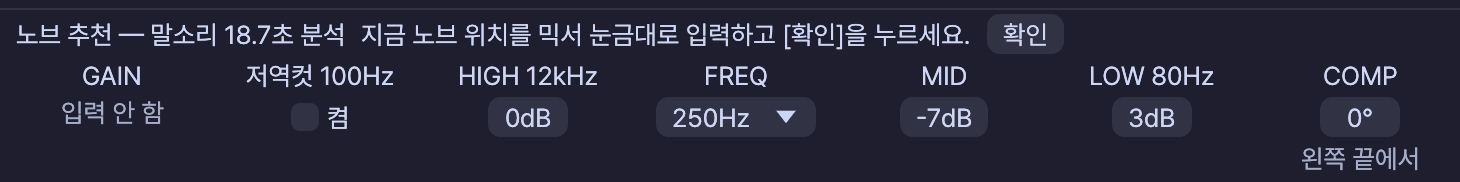
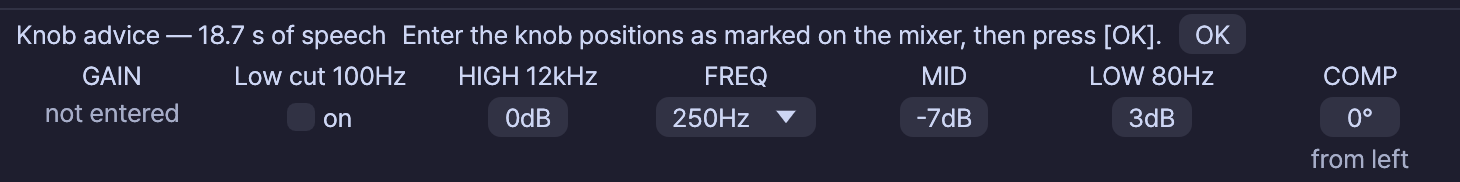
docs: README and screenshots for the English interface

diff --git a/README.md b/README.md
@@ -1,28 +1,26 @@
 # Mixer Analyzer
 
-Listens to a voice through an analog mixer and tells you which EQ knob on that channel to turn, which way, and how far. Built for church sound checks: set the EQ to 12 o'clock, press **분석** (Analyze), and talk for 20 seconds. You fine-tune by ear after that.
+Listens to a voice through an analog mixer and tells you which EQ knob on that channel to turn, which way, and how far. Built for church sound checks: set the EQ to 12 o'clock, press **Analyze**, and talk for 20 seconds. You fine-tune by ear after that.
 
 <p align="center">
-  <img src="docs/screenshots/main.png" width="860" alt="Mixer Analyzer after a centre analysis: the spectrum of a female voice against the dotted target, a red muddiness band at 250–500 Hz, and the knob row advising MID at 250 Hz 65° counter-clockwise and LOW 30° clockwise">
+  <img src="docs/screenshots/main.png" width="860" alt="Mixer Analyzer after a center analysis: the spectrum of a female voice against the dotted target, a red Mud band at 250–500 Hz, and the knob row advising MID at 250 Hz 65° counter-clockwise and LOW 30° clockwise">
 </p>
-
-The app is in Korean. This README names each control by its on-screen label, with the English meaning beside it.
 
 ## Installation
 
 - **macOS:** Apple menu → **About This Mac** shows the chip. Take `MixerAnalyzer-mac-AppleSilicon.zip` for "Apple M…" or `MixerAnalyzer-mac-Intel.zip` for "Intel", unzip it, and move `MixerAnalyzer.app` to Applications.
-- **Windows:** run `MixerAnalyzer-Setup.exe`, then start **믹서 분석기** from the Start menu or the desktop. Uninstall in Settings → Apps; saved settings stay. If you used the old zip version, delete the old `MixerAnalyzer.exe` and its shortcut: it never checks for updates.
+- **Windows:** run `MixerAnalyzer-Setup.exe`, then start **Mixer Analyzer** from the Start menu or the desktop. Uninstall in Settings → Apps; saved settings stay. If you used the old zip version, delete the old `MixerAnalyzer.exe` and its shortcut: it never checks for updates.
 
 ### First launch
 
-- **macOS:** the first launch is blocked ("can't be opened"). Open **System Settings → Privacy & Security** and click **Open Anyway**. Allow the microphone when asked; denied, the app gets silence and shows `입력 신호가 없습니다` (no input signal).
+- **macOS:** the first launch is blocked ("can't be opened"). Open **System Settings → Privacy & Security** and click **Open Anyway**. Allow the microphone when asked; denied, the app gets silence and warns that there is no input.
 - **Windows:** if "Windows protected your PC" appears, click **More info → Run anyway**. If no sound comes in, turn on microphone access in Settings → Privacy & security → Microphone.
 
 ### Updates
 
-At launch the app checks for a new version and shows `새 버전이 있습니다` (a new version is available) at the top of the left panel. Nothing shows when offline.
-- Windows: **업데이트** (Update) downloads the installer, opens it and closes the app. Not during a service.
-- macOS: **받으러 가기** (Get it) opens the download folder; replace the app with the new zip.
+At launch the app checks for a new version and shows **New version available** at the top of the left panel. Nothing shows when offline.
+- Windows: **Update** downloads the installer, opens it and closes the app. Not during a service.
+- macOS: **Download** opens the download folder; replace the app with the new zip.
 
 The running version is at the bottom of the left panel.
 
@@ -42,18 +40,18 @@ The app hears whatever reaches the computer. Send it the one channel you are set
 
 ## Usage
 
-1. In the left panel pick **믹서** (mixer), **채널** (channel group), **입력장치** (input device), **분석채널** (analysis channel: 1 = L, 2 = R), **목표** (target) and **남성 / 여성** (male / female voice).
-2. Press **분석** (Analyze). A dialog lists the knobs this channel has:
+1. In the left panel pick the **Mixer**, **Channel** group, **Input** device, **Analysis channel** (1 = L, 2 = R), **Target** and **Male** / **Female** voice.
+2. Press **Analyze**. A dialog lists the knobs this channel has:
 
    <p align="center">
-     <img src="docs/screenshots/dialog.png" width="390" alt="The pre-analysis dialog: HIGH, MID and LOW to 12 o'clock, low cut off, COMP fully left, GAIN as is, with the buttons 가운데로 맞췄어요, 분석 / 지금 세팅 그대로 분석 / 취소">
+     <img src="docs/screenshots/dialog.png" width="380" alt="The Before you analyze dialog: HIGH, MID and LOW to 12 o'clock, low cut off, COMP fully left, GAIN as is, with the buttons Centered, analyze / Analyze as set / Cancel">
    </p>
 
-   Turn HIGH, MID and LOW to 12 o'clock, the low cut off and COMP fully left (off). Leave GAIN. Then press **가운데로 맞췄어요, 분석** (centred, analyze) or `Enter`. **취소** (Cancel) or `Esc` closes the dialog.
-3. Talk as usual until the recording ends. The **녹음** (record) slider sets its length: 15–30 s, 20 s by default. The button turns into **취소** (Cancel) meanwhile.
+   Turn HIGH, MID and LOW to 12 o'clock, the low cut off and COMP fully left (off). Leave GAIN. Then press **Centered, analyze** or `Enter`. **Cancel** or `Esc` closes the dialog.
+3. Talk as usual until the recording ends. The **Record** slider sets its length: 15–30 s, 20 s by default. Meanwhile the button turns into **Cancel**.
 4. Turn each knob as the knob row says, then fine-tune by ear.
 
-The analysis needs at least 5 s of speech; `말소리가 부족합니다` (not enough speech) means press **분석** again and keep talking. Do it at the sound check: during the service the sound keeps changing.
+The analysis needs at least 5 s of speech; if there wasn't enough, the notes say so: press **Analyze** again and keep talking. Do it at the sound check: during the service the sound keeps changing.
 
 The result stays until the next analysis, and the previous one stays visible while recording. Changing the mixer, channel group, target or voice recomputes the advice from it without recording again.
 
@@ -63,14 +61,14 @@ Each knob gets a dial and a caption. The needle is where the knob is, the yellow
 
 | Caption | Meaning |
 |---|---|
-| `시계방향 30°` / `반시계 65°` | Turn 30° clockwise / 65° counter-clockwise |
-| `(+3dB 눈금으로)` | That lands on the +3 dB mark |
-| `250Hz 눈금에` | Set FREQ to the 250 Hz mark |
-| `왼쪽 끝에서 30°로` | COMP: turn to 30° from the left end |
-| `켜기 권장` | Turn the low cut on |
-| `✓` | Leave it where it is |
+| `30° CW` / `65° CCW` | Turn 30° clockwise / 65° counter-clockwise |
+| `(to +3 dB)` | That lands on the +3 dB mark |
+| `Set 250Hz` | Set FREQ to the 250 Hz mark |
+| `To 30° from left` | COMP: turn to 30° from the left end |
+| `Turn on` | Turn the low cut on |
+| `✓` / `✓ keep` | Leave it where it is |
 
-- After a centre analysis the turns are from 12 o'clock; after an as-is analysis, from the positions you entered (see [Analyzing as set](#analyzing-as-set)). GAIN is always from where it is now. The header says which.
+- After a center analysis the turns are from 12 o'clock; after an as-set analysis, from the positions you entered (see [Analyzing as set](#analyzing-as-set)). GAIN is always from where it is now. The header says which.
 - Angles are a feel, not a measurement.
 - A knob never boosts inside a red band of the graph, or cuts inside a blue one.
 - HIGH is never boosted past +6 dB, except when restoring a saved setting.
@@ -79,103 +77,103 @@ Each knob gets a dial and a caption. The needle is where the knob is, the yellow
 
 | Line | Meaning |
 |---|---|
-| Green, thick | **분석 결과**: the analysis, averaged over the recording |
-| Blue | **현재 소리**: the sound now |
-| Dark grey | **피크**: the peak. It never falls; **피크 리셋** or a new analysis clears it |
-| Dotted | **목표**: the target, shifted to sit on the analysis over most of 100 Hz–12.5 kHz. Compare shapes, not heights; overall level is GAIN's job |
+| Green, thick | **Analysis**: averaged over the recording |
+| Blue | **Live**: the sound now |
+| Dark gray | **Peak**: it never falls; **Reset peak** or a new analysis clears it |
+| Dotted | **Target**: shifted to sit on the analysis over most of 100 Hz–12.5 kHz. Compare shapes, not heights; overall level is GAIN's job |
 
-Bring the green line to the dotted one. The checkboxes beside **표시** (show) turn each layer on and off; their colour is the line's colour. **봉우리 표시** starts off at every launch, the rest on.
+Bring the green line to the dotted one. The checkboxes beside **Show** turn each layer on and off; their color is the line's color. **Peaks** starts off at every launch, the rest on.
 
-- **노브 구간** (knob ranges): bars along the top show the range each EQ knob covers. A sweepable MID covers its whole FREQ range; the advised FREQ gets a yellow line and bar.
-- **대역 비교** (band comparison): the analysis against the target in eight bands. A band 3 dB or more over the target is red, 3 dB or more under is blue, with its name and difference along the bottom. Read it against the target, not as good or bad: 2.4–3.6 kHz, for one, holds presence as well as harshness.
+- **Knob ranges**: bars along the top show the range each EQ knob covers. A sweepable MID covers its whole FREQ range; the advised FREQ gets a yellow line and bar.
+- **Band check**: the analysis against the target in eight bands. A band 3 dB or more over the target is red, 3 dB or more under is blue, with its name and difference along the bottom. Read it against the target, not as good or bad: 2.4–3.6 kHz, for one, holds presence as well as harshness.
 
-  | 웅웅거림 | 먹먹함 | 통 울림 | 비음 | 까랑함 | 쏘는 소리 | 치찰음 | 공기감 |
+  | Boom | Mud | Boxy | Nasal | Harsh | Sharp | Sibilance | Air |
   |---|---|---|---|---|---|---|---|
-  | boom | muddiness | boxiness | nasal | harshness | sharpness | sibilance | air |
   | 80–250 Hz | 250–500 Hz | 500–800 Hz | 800–1.5k | 1.5–3k | 3–5k | 5–10k | 10–20k |
 
-- **봉우리 표시** (peaks): up to 5 narrow peaks between 100 Hz and 10 kHz that stand 3 dB or more over their 1-octave surroundings, marked `▼ 892Hz +4dB`. The voice's own formants get marked too, so read them with the band comparison. Feedback has its own warning.
+- **Peaks**: up to 5 narrow peaks between 100 Hz and 10 kHz that stand 3 dB or more over their 1-octave surroundings, marked `▼ 892Hz +4dB`. The voice's own formants get marked too, so read them with the band check. Feedback has its own warning.
 
 Graph settings in the left panel change only the drawing; they never need a new recording or change the advice:
-- **실시간 선** (live line): how fast the blue line follows, 0.3 / 1 / 3 s.
-- **해상도** (resolution): 1/12, 1/24, 1/48 or 1/96 octave; 1/48 by default.
-- **주파수 평활** (smoothing): off, 1/24, 1/12, 1/6 or 1/3 octave; 1/6 by default. Stronger smoothing lowers narrow peaks. Smoothing narrower than two points of the resolution is widened.
+- **Live line**: how fast the blue line follows, 0.3 / 1 / 3 s.
+- **Resolution**: 1/12, 1/24, 1/48 or 1/96 octave; 1/48 by default.
+- **Smoothing**: off, 1/24, 1/12, 1/6 or 1/3 octave; 1/6 by default. Stronger smoothing lowers narrow peaks. Smoothing narrower than two points of the resolution is widened.
 
-Below the graph, **레벨/디스토션 기록** (level history) shows the last 30 s of peaks, with clipping as red dots. The line under it shows the peak, the clip count (**클리핑 리셋** zeroes it), suspected overload from the last analysis, and suspected feedback, live. The **안내** (notes) lines at the bottom carry connection tips and noise and feedback warnings.
+Below the graph, **Level / distortion** shows the last 30 s of peaks, with clipping as red dots. The line under it shows the peak, the clip count (**Reset clips** zeroes it), suspected overload from the last analysis, and suspected feedback, live. The **Notes** at the bottom carry connection tips and noise and feedback warnings.
 
 ### Targets
 
-The **목표** (target) menu has groups:
-- `기본 · 자연스러운 목소리` (default): the voice as it is, natural.
-- `찬양인도자` (worship leader), `설교자` (preacher), `보조보컬` (backing vocal): known church vocal EQ settings. The line under the menu says when each one fits.
+The **Target** menu has groups:
+- `Default · Natural voice`: the voice as it is, natural.
+- `Worship leader`, `Preacher`, `Backing vocal`: known church vocal EQ settings. The line under the menu says when each one fits.
 
-The advice starts from this voice through this mic: an already bright voice isn't told to add HIGH. **남성 / 여성** picks the base voice for the default and the presets. If the channel lacks a knob a preset needs, the notes say `그 부분은 빼고 맞춥니다` (that part is left out).
+The advice starts from this voice through this mic: an already bright voice isn't told to add HIGH. **Male** / **Female** picks the base voice for the default and the presets. If the channel lacks a knob a preset needs, the notes say that part is left out.
 
 ## Analyzing as set
 
-**지금 세팅 그대로 분석** (analyze as set) in the dialog records without touching the knobs. Use it when the knobs are already turned, or to save a setting. When the recording ends, the knob row turns into fields. Enter the knobs as the mixer's markings read, then press **확인** (OK):
+**Analyze as set** in the dialog records without touching the knobs. Use it when the knobs are already turned, or to save a setting. When the recording ends, the knob row turns into fields. Enter the knobs as the mixer's markings read, then press **OK**:
 
 <p align="center">
-  <img src="docs/screenshots/entry.png" width="730" alt="The knob row as fields: low cut 켬 unchecked, HIGH 0dB, FREQ 250Hz, MID -7dB, LOW 3dB, COMP 0° from the left end, and the 확인 button in the header">
+  <img src="docs/screenshots/entry.png" width="730" alt="The knob row as fields: low cut off, HIGH 0dB, FREQ 250Hz, MID -7dB, LOW 3dB, COMP 0° from left, and the OK button in the header">
 </p>
 
 | Knob | Enter |
 |---|---|
-| HIGH, MID, LOW | dB from centre, −15 to 15 |
+| HIGH, MID, LOW | dB from center, −15 to 15 |
 | FREQ | The mark. Required while MID isn't 0 |
-| Low cut | **켬** (on) |
+| Low cut | **on** |
 | COMP | Degrees from the left end, in 5° steps |
 | GAIN | Not entered |
 
-- The fields start where the knob row last pointed: the saved setting, the advised positions, or centre. Fix only what differs.
-- After **확인** the advice is turns from the entered positions. **입력 고치기** (edit entry) in the header reopens the fields.
+- The fields start where the knob row last pointed: the saved setting, the advised positions, or center. Fix only what differs.
+- After **OK** the advice is turns from the entered positions. **Edit entry** in the header reopens the fields.
 - Changing the mixer or channel group drops the entry and reopens the fields.
-- With too little speech or a low sample rate there are no fields, just the knob names and the reason. The next as-is analysis starts from the same fill.
+- With too little speech or a low sample rate there are no fields, just the knob names and the reason. The next as-set analysis starts from the same fill.
 
 ## Saving and restoring
 
 A saved setting holds the sound (its spectrum) and the knob positions entered with it. The positions let you set the same mixer and channel straight away; the sound tells what's left to adjust today.
 
 **Save** (someone who knows the sound):
-1. Centre the knobs, press **분석** → **가운데로 맞췄어요, 분석**. If you can read the knobs, an as-is analysis with the positions entered works too.
+1. Center the knobs, press **Analyze** → **Centered, analyze**. If you can read the knobs, an as-set analysis with the positions entered works too.
 2. Turn as advised and refine by ear.
-3. **분석** → **지금 세팅 그대로 분석**. The fields start at the advised positions; fix what you changed by ear, then **확인**.
-4. **이 소리 저장** (save this sound), type a name, **저장** (Save). Put speech or singing, and any accompaniment, in the name. The same name overwrites.
+3. **Analyze** → **Analyze as set**. The fields start at the advised positions; fix what you changed by ear, then **OK**.
+4. **Save this sound**, type a name, **Save**. Put speech or singing, and any accompaniment, in the name. The same name overwrites.
 
-Saving is blocked between an as-is analysis and its **확인**. Saving right after a centre analysis stores every knob at centre.
+Saving is blocked between an as-set analysis and its **OK**. Saving right after a center analysis stores every knob at center.
 
 **Restore** (a volunteer):
-1. Pick `저장한 세팅 · <name>` in **목표**.
-2. On the same mixer and channel, the line `저장된 노브: …` (saved knobs) under the knob row header lists every knob that isn't at centre. Set them. This needs no analysis and no speaker, so it works before the service or after someone bumped a knob. Before the first analysis the knob row shows the same positions as turns from centre; after one it shows that analysis, so go by the `저장된 노브` line.
-3. While the same person talks: **분석** → **지금 세팅 그대로 분석**, check the fields match the `저장된 노브` line, **확인**. Only what's left to adjust shows, as turns from there. All ✓ means done.
+1. Pick `Saved · <name>` in **Target**.
+2. On the same mixer and channel, the line `Saved knobs: …` under the knob row header lists every knob that isn't at center. Set them. This needs no analysis and no speaker, so it works before the service or after someone bumped a knob. Before the first analysis the knob row shows the same positions as turns from center; after one it shows that analysis, so go by the `Saved knobs` line.
+3. While the same person talks: **Analyze** → **Analyze as set**, check the fields match the `Saved knobs` line, **OK**. Only what's left to adjust shows, as turns from there. All ✓ means done.
 
 <p align="center">
-  <img src="docs/screenshots/restore.png" width="730" alt="A restore: the 저장된 노브 line reads FREQ 250Hz · MID -7dB · LOW 80Hz +3dB, and every knob below shows ✓">
+  <img src="docs/screenshots/restore.png" width="730" alt="A restore: the Saved knobs line reads FREQ 250Hz · MID -7dB · LOW 80Hz +3dB, and every knob below shows ✓">
 </p>
 
 - Each recording differs a little. Differences that size stay ✓: LOW 3–8 dB depending on the mixer and FREQ (about 10 dB on a Signature with MID at 160 Hz or lower), HIGH up to 3–5 dB. Adjust within that by ear.
 - A LOW turn may come out larger than needed; check the lows by ear after turning.
 - If one knob is flagged though nobody touched it (rare), analyze as set once more, with the fields fixed to where the knobs are, and turn only if it comes back the same way.
-- Can't read the knobs, or a different mixer? A centre analysis works too: turning as advised brings back the saved sound. The notes say when the mixer or channel differs.
-- The low cut is never advised off, only `켜기 권장` (on) when it is off.
+- Can't read the knobs, or a different mixer? A center analysis works too: turning as advised brings back the saved sound. The notes say when the mixer or channel differs.
+- The low cut is never advised off, only `Turn on` when it is off.
 - GAIN isn't restored; it depends on how loud the person is that day. Only clipping and a too-quiet signal are flagged.
 - COMP is never advised down. If the loudness swings more than when saved, it says to turn it to 30° from the left end (✓ if it is already there or further).
 - Settings saved by 0.4.0 or older have no positions; they restore by sound only.
 - Take a photo of the channel strip when saving.
 
-**삭제** (Delete) shows while a saved setting is picked. It turns into **정말 삭제** (really delete); press again to delete. Changing the target cancels.
+**Delete** shows while a saved setting is picked. It turns into **Really delete**; press again to delete. Changing the target cancels.
 
 ### Save folder
 
-Settings live in `saved.tsv` in the save folder, set under **저장 폴더** in the left panel:
-- **찾아보기…** (Browse) picks a folder, remembered across launches. A folder with a `saved.tsv` is read; in an empty one the current list is copied in. The old folder's file stays.
-- **폴더 열기** (open folder) opens it in Finder or Explorer. **읽기** (read) reads the file again. **쓰기** (write) overwrites it with the current list.
+Settings live in `saved.tsv` in the save folder, set under **Save folder** in the left panel:
+- **Browse…** picks a folder, remembered across launches. A folder with a `saved.tsv` is read; in an empty one the current list is copied in. The old folder's file stays.
+- **Open folder** opens it in Finder or Explorer. **Read** reads the file again. **Write** overwrites it with the current list.
 - Default: `~/Library/Application Support/MixerAnalyzer` on macOS (in Finder's **Go** menu, hold Option for **Library**), `%APPDATA%\MixerAnalyzer` on Windows.
-- Errors show in red in the notes. A file that couldn't be read is never overwritten until you press **쓰기**.
+- Errors show in red in the notes. A file that couldn't be read is never overwritten until you press **Write**.
 
-When several computers share the folder, run 0.5.0 or newer on all of them:
-- 0.3.2 and 0.4.0 can't read lines with knob positions and refuse to save or delete. **쓰기** there drops those lines.
-- 0.3.1 and older can't read sounds saved by newer versions. Saving, deleting or **쓰기** there erases them.
+When several computers share the folder, run the latest version on all of them. Settings saved by older, Korean-language versions are read and keep working.
+- 0.5.0 and older can't match settings saved by newer versions to their mixer: no saved knobs, and a note that the mixer differs.
+- 0.3.2 and 0.4.0 can't read lines with knob positions and refuse to save or delete. **Write** there drops those lines.
+- 0.3.1 and older can't read sounds saved by newer versions. Saving, deleting or **Write** there erases them.
 
 ## Building
 
@@ -183,7 +181,7 @@ Rust 1.96 (pinned in `rust-toolchain.toml`).
 
 ```bash
 cargo run --release              # run from source
-cargo run --release -- --demo    # 데모 신호: a synthetic voice instead of a microphone
+cargo run --release -- --demo    # Demo signal: a synthetic voice instead of a microphone
 cargo test
 scripts/build-mac.sh             # dist/MixerAnalyzer-mac-{AppleSilicon,Intel}.zip
 scripts/build-win.sh             # dist/MixerAnalyzer-Setup.exe and dist/latest.txt
@@ -194,4 +192,4 @@ scripts/build-win.sh             # dist/MixerAnalyzer-Setup.exe and dist/latest.
 ## License notices
 
 - Font Pretendard Regular: SIL Open Font License 1.1 (`Pretendard-LICENSE.txt` in the install folder or the zip).
-- Colours Catppuccin Mocha: MIT License, Copyright (c) 2021 Catppuccin.
+- Colors Catppuccin Mocha: MIT License, Copyright (c) 2021 Catppuccin.
